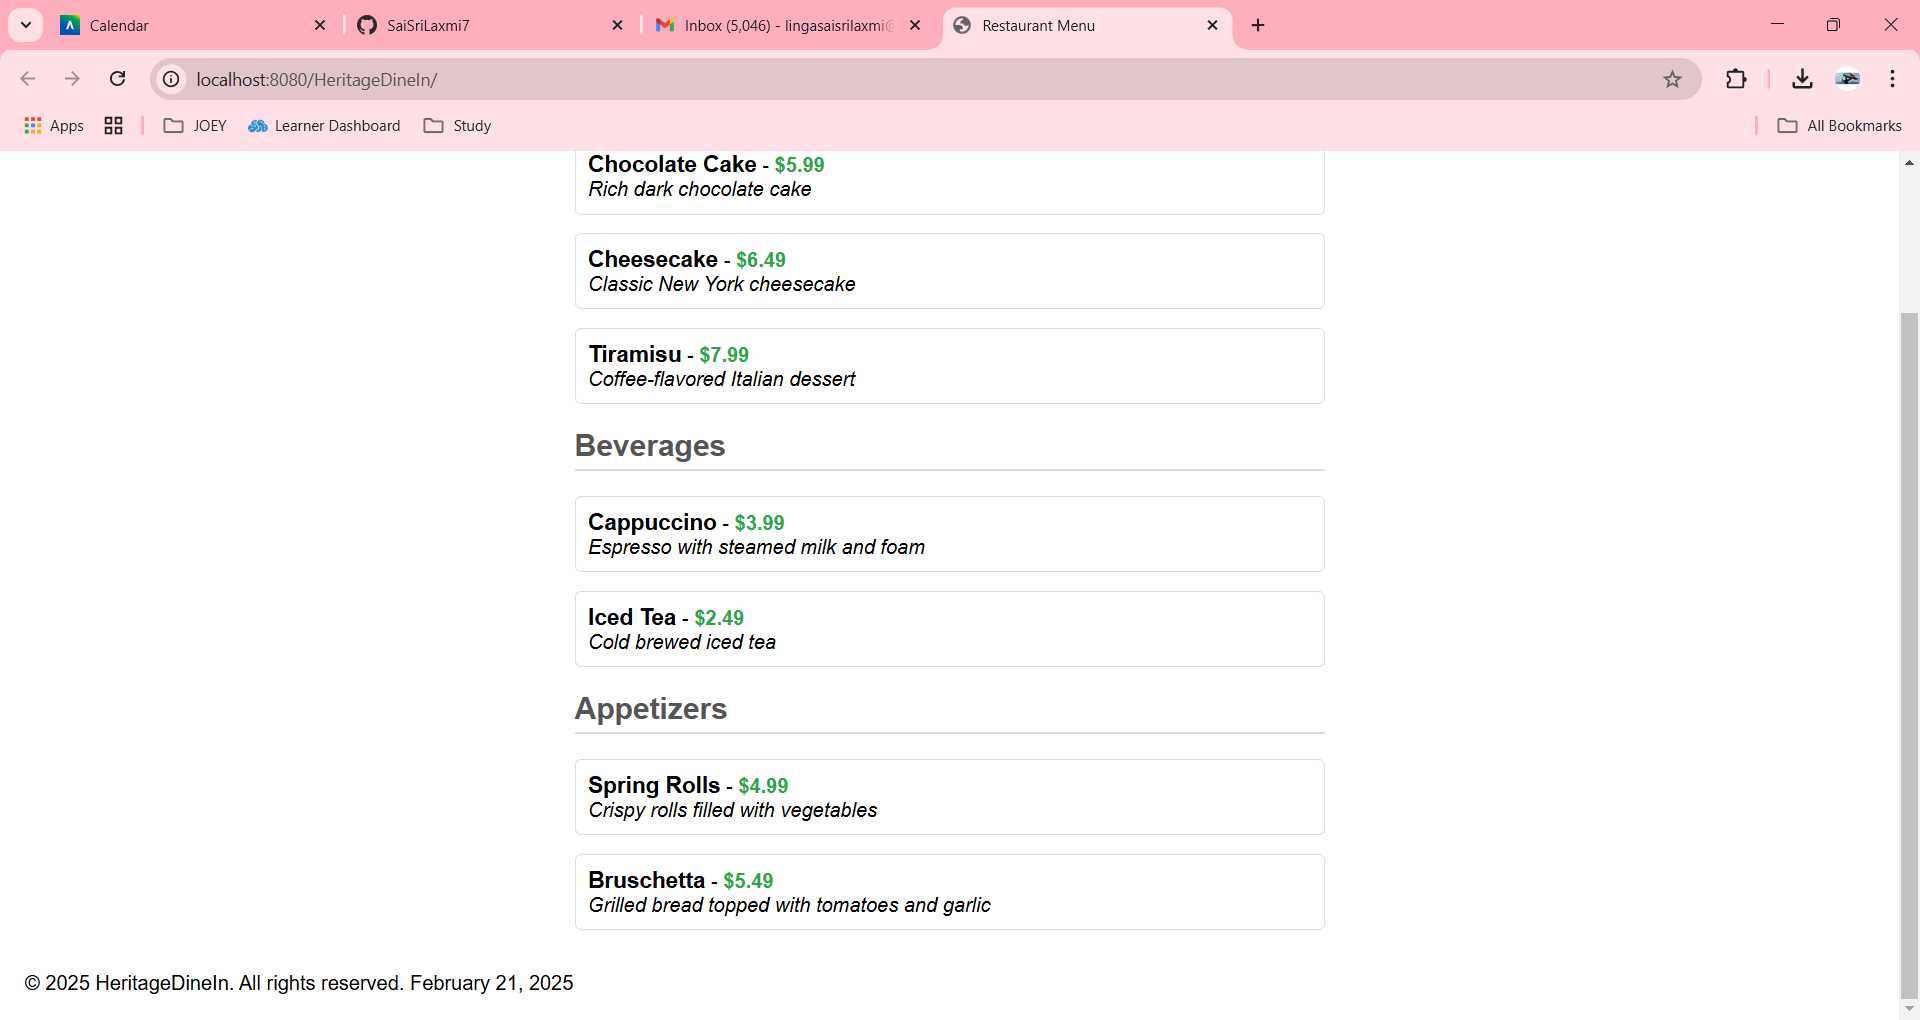
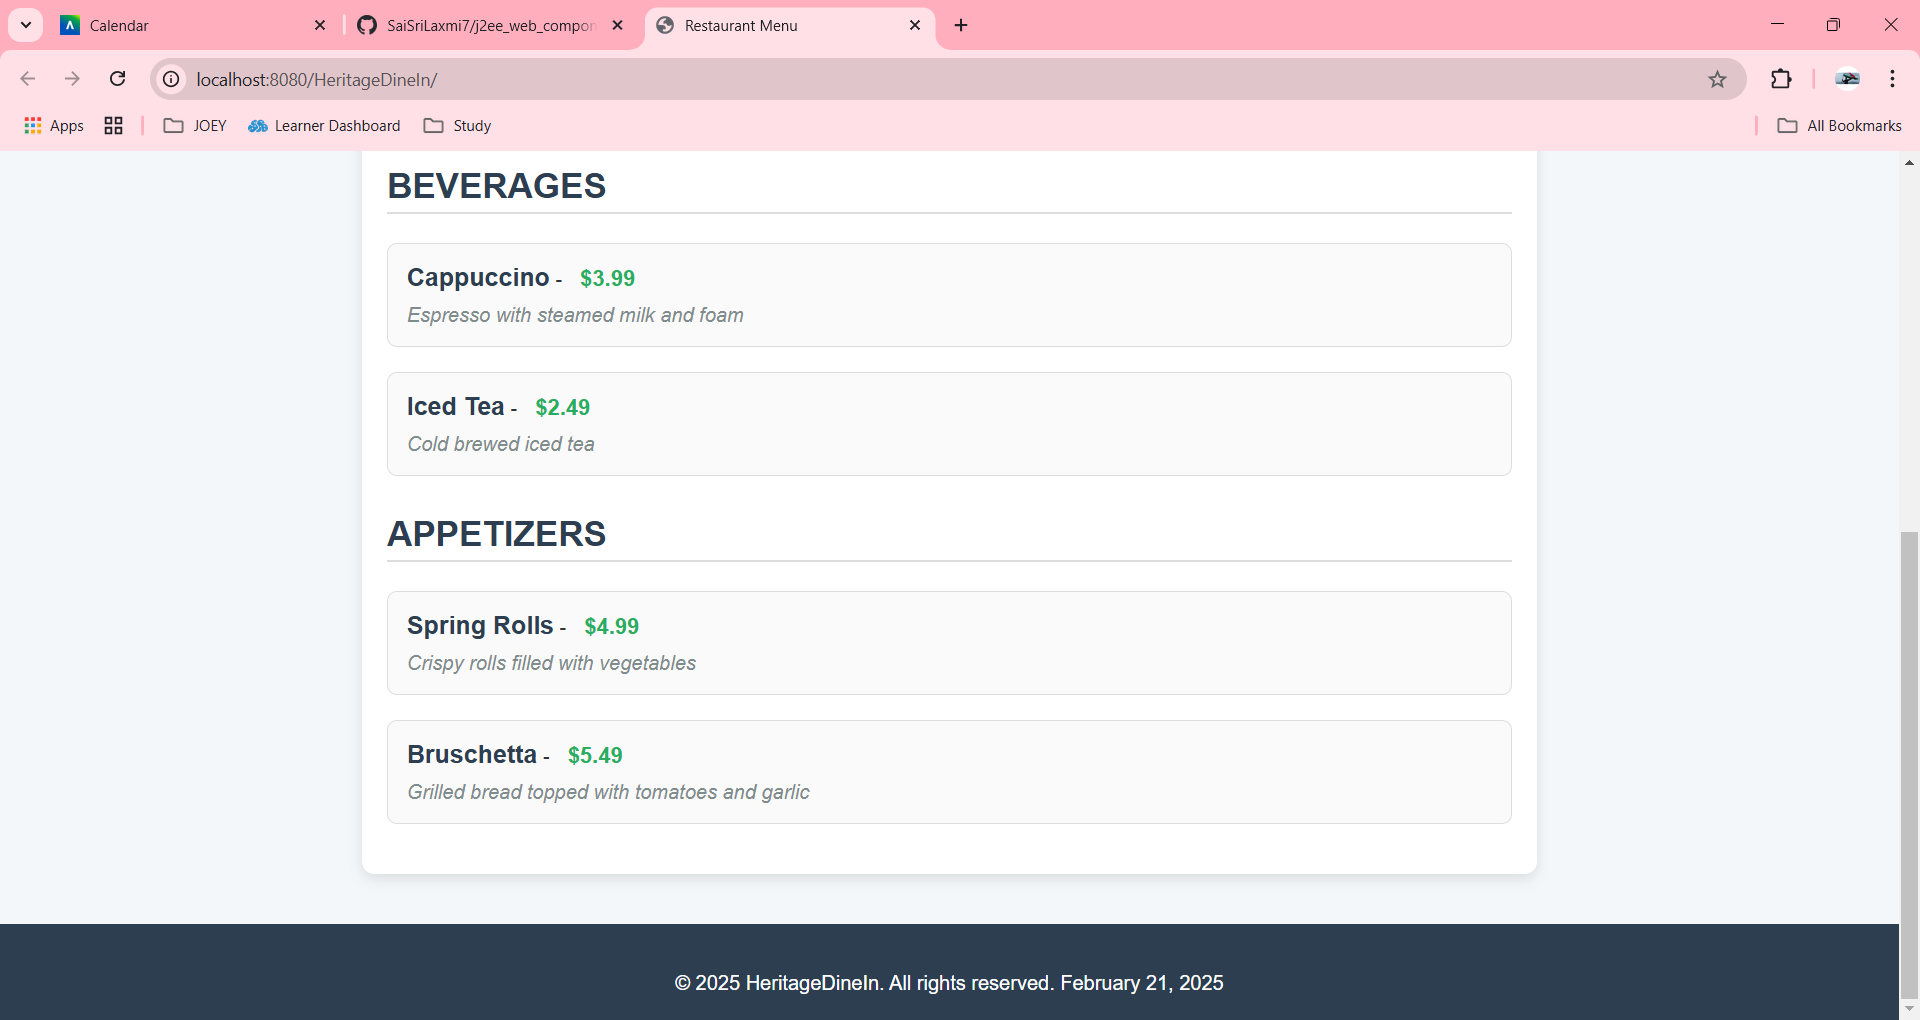
second commit

diff --git a/HeritageDineIn/src/main/webapp/styles.css b/HeritageDineIn/src/main/webapp/styles.css
@@ -1,28 +1,106 @@
+/* Overall Page Styling */
 body {
-    font-family: Arial, sans-serif;
-    background-color: #f4f4f4;
+    font-family: 'Arial', sans-serif;
+    background-color: #f4f7fa;
     color: #333;
-    margin: 20px;
-    padding: 20px;
-}
-
-h2 {
-    color: #2c3e50;
-    text-align: center;
-}
-
-h3 {
-    color: #2980b9;
-}
-
-ul {
-    list-style-type: none;
+    margin: 0;
     padding: 0;
 }
 
-li {
-    background: #ecf0f1;
-    margin: 5px;
-    padding: 10px;
-    border-radius: 5px;
+h1 {
+    background-color: #2c3e50;
+    color: #fff;
+    padding: 20px;
+    text-align: center;
+    margin: 0;
+    font-size: 2.5rem;
+}
+
+/* Menu Container */
+.menu-container {
+    max-width: 900px;
+    margin: 30px auto;
+    padding: 20px;
+    background-color: #ffffff;
+    border-radius: 10px;
+    box-shadow: 0px 4px 10px rgba(0, 0, 0, 0.1);
+}
+
+/* Loading message */
+#loading-message {
+    text-align: center;
+    font-size: 1.25rem;
+    color: #007bff;
+    margin-top: 20px;
+}
+
+/* Menu Items Styling */
+.menu-item {
+    margin-bottom: 20px;
+    padding: 15px;
+    border: 1px solid #ddd;
+    border-radius: 8px;
+    background-color: #fafafa;
+    transition: background-color 0.3s ease, transform 0.2s ease;
+}
+
+.menu-item:hover {
+    background-color: #f1f1f1;
+    transform: translateY(-5px);
+}
+
+.menu-item strong {
+    font-size: 1.25rem;
+    color: #2c3e50;
+}
+
+.menu-item .price {
+    color: #27ae60;
+    font-weight: bold;
+    font-size: 1.1rem;
+    margin-left: 10px;
+}
+
+.menu-item em {
+    display: block;
+    color: #7f8c8d;
+    margin-top: 10px;
+    font-size: 1rem;
+}
+
+/* Error Message */
+.error {
+    color: #e74c3c;
+    text-align: center;
+    font-size: 1.25rem;
+    margin-top: 20px;
+}
+
+/* Category Heading */
+h2 {
+    color: #2c3e50;
+    font-size: 1.75rem;
+    margin-top: 30px;
+    border-bottom: 2px solid #ddd;
+    padding-bottom: 5px;
+    text-transform: uppercase;
+}
+
+/* Footer Styling */
+footer {
+    background-color: #2c3e50;
+    color: #fff;
+    padding: 20px;
+    text-align: center;
+    margin-top: 40px;
+}
+
+footer a {
+    color: #e74c3c;
+    text-decoration: none;
+    font-weight: bold;
+}
+
+footer a:hover {
+    text-decoration: underline;
 }
